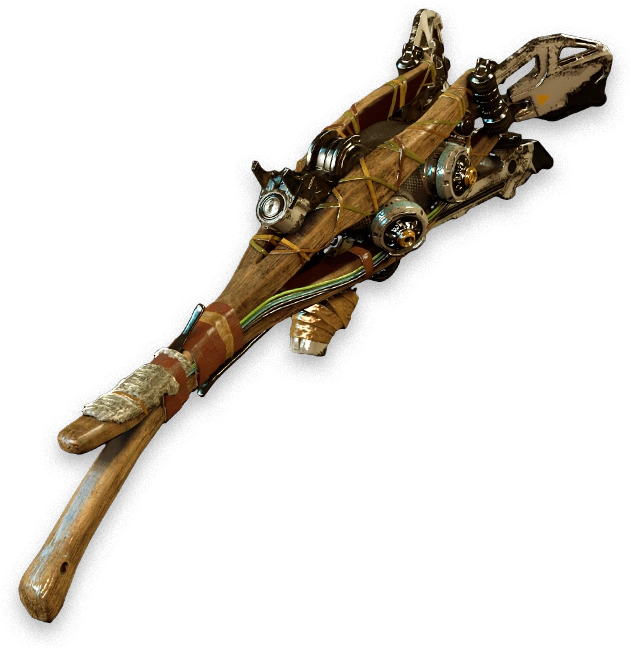
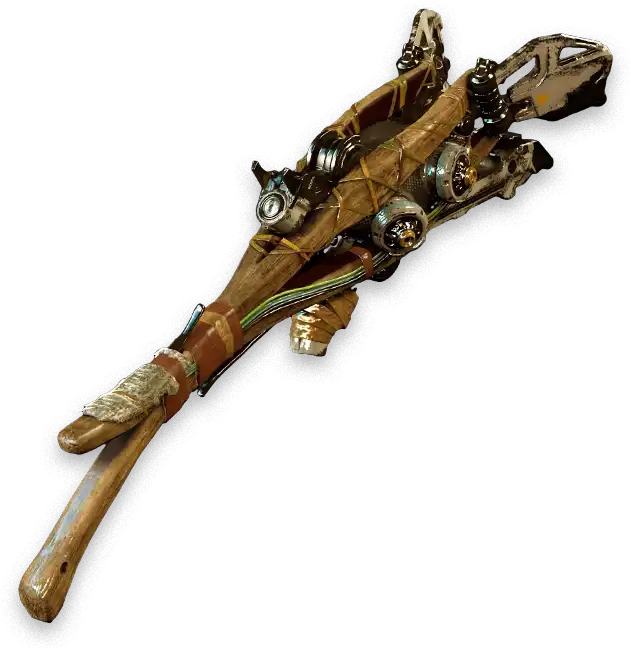
Optimization img less espace Arsenal 3

Changed region(s): [[0.6624, 0.2469, 0.6926, 0.2778]]

diff --git a/src/app/page.tsx b/src/app/page.tsx
@@ -1,4 +1,5 @@
 import ArsenalDisplay from "@/components/ArsenalDisplay";
+import MachineDisplay from "@/components/MachineDisplay";
 import ParallaxEffect from "@/components/ParallaxEffect";
 
 export default function Home() {
@@ -9,6 +10,9 @@ export default function Home() {
       </div> */}
       <div>
         <ArsenalDisplay />
+      </div>
+      <div>
+        <MachineDisplay />
       </div>
     </div>
   );
